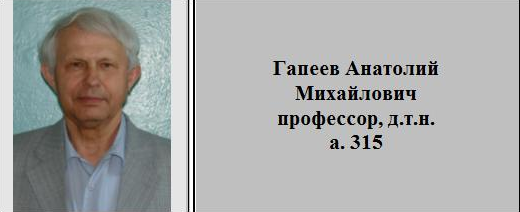
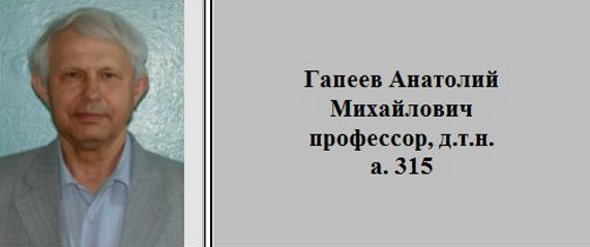
modified prepody part 2

diff --git a/content/prepody/5.htm b/content/prepody/5.htm
@@ -1,5 +1,5 @@
 <br/>
-<img src="/img/prepody2012/morgunov.jpg"></img>
+<img src="/img/prepody2012/ivanovskyi.jpg"></img>
 
 <br/><br/>
 <p>Расписание преподавателя можно посмотреть

diff --git a/content/prepody/6.htm b/content/prepody/6.htm
@@ -1,5 +1,5 @@
 <br/>
-<img src="/img/prepody2012/morgunov.jpg"></img>
+<img src="/img/prepody2012/golovkov.jpg"></img>
 
 <br/><br/>
 <p>Расписание преподавателя можно посмотреть

diff --git a/content/prepody/3.htm b/content/prepody/3.htm
@@ -1,5 +1,5 @@
 <br/>
-<img src="/img/prepody2012/morgunov.jpg"></img>
+<img src="/img/prepody2012/kolosov.jpg"></img>
 
 <br/><br/>
 <p>Расписание преподавателя можно посмотреть

diff --git a/content/prepody/4.htm b/content/prepody/4.htm
@@ -1,5 +1,5 @@
 <br/>
-<img src="/img/prepody2012/morgunov.jpg"></img>
+<img src="/img/prepody2012/garibin.jpg"></img>
 
 <br/><br/>
 <p>Расписание преподавателя можно посмотреть

diff --git a/content/prepody/2.htm b/content/prepody/2.htm
@@ -1,5 +1,5 @@
 <br/>
-<img src="/img/prepody2012/morgunov.jpg"></img>
+<img src="/img/prepody2012/gapeev.jpg"></img>
 
 <br/><br/>
 <p>Расписание преподавателя можно посмотреть
